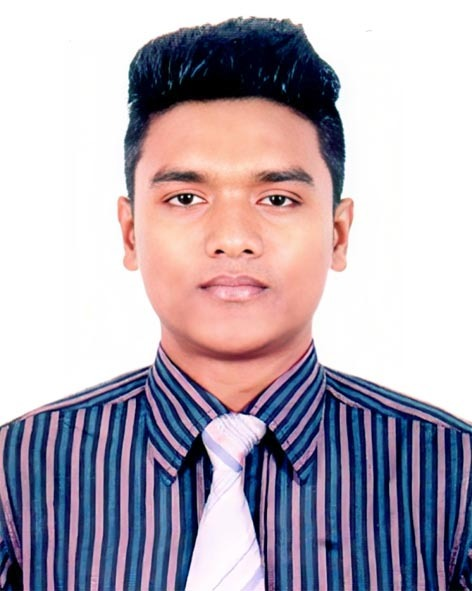
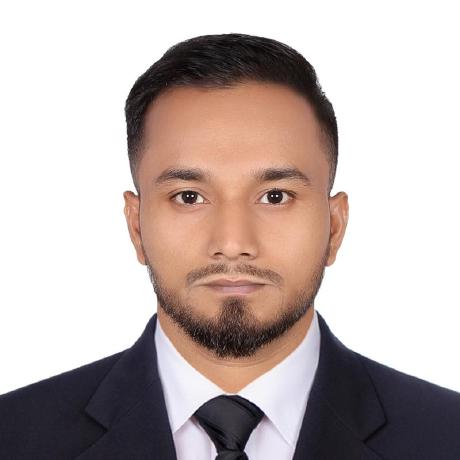
Image Added

diff --git a/Index.html b/Index.html
@@ -451,7 +451,7 @@
       </a>
       <span class="contact-pill">
         <svg width="13" height="13" fill="none" stroke="currentColor" stroke-width="2" viewBox="0 0 24 24"><path d="M21 10c0 7-9 13-9 13s-9-6-9-13a9 9 0 0118 0z"/><circle cx="12" cy="10" r="3"/></svg>
-        North Adabor, Dhaka-1207
+        Baridhara, Gulshan-2, Dhaka-1212
       </span>
     </div>
   </div>
